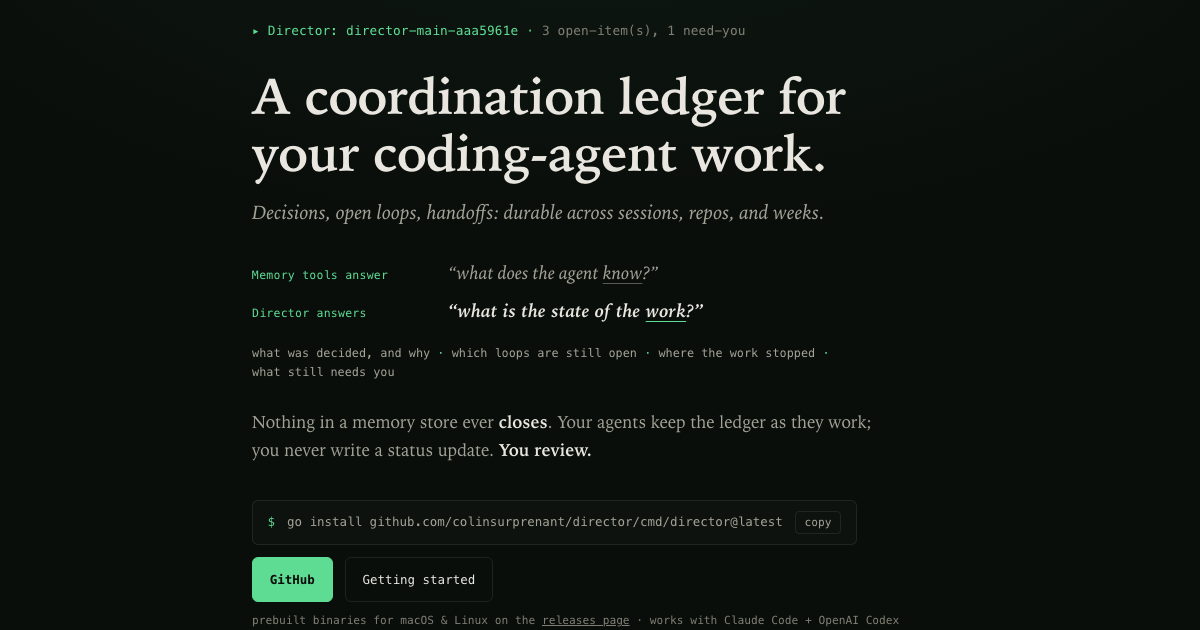
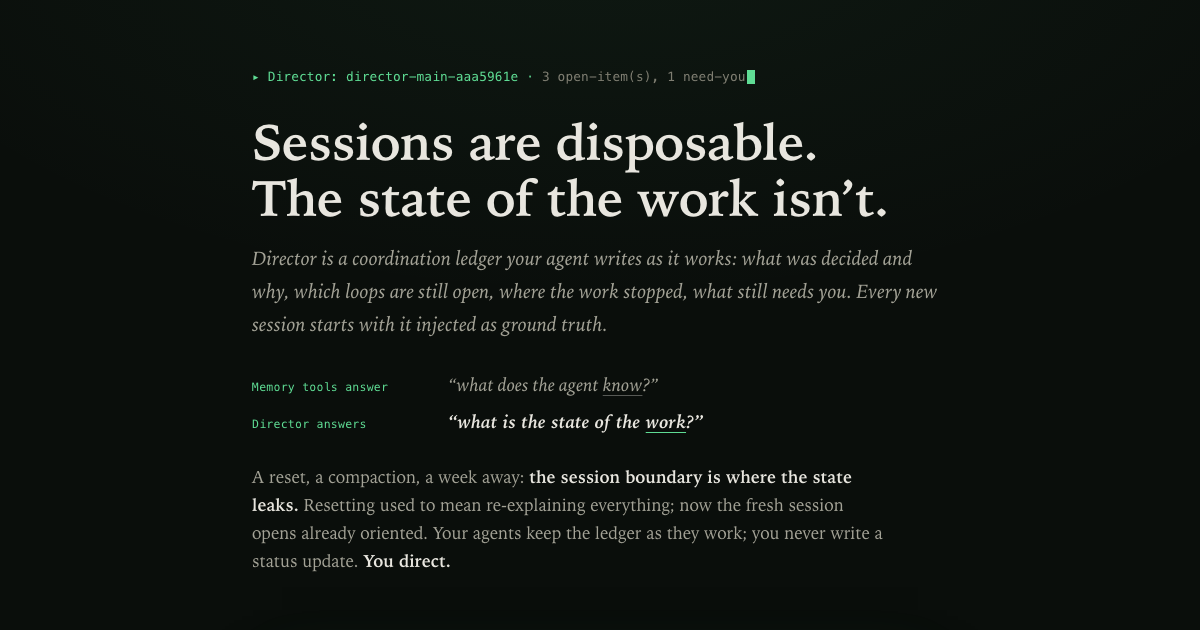
site+docs: regenerate og.png from new hero; align getting-started opening
The og image was stale twice over: old headline plus the pre-installer go-install command. Regenerated at 1200x630 from the reworked page (install row hidden so the card ends on You direct). getting-started opening aligned to the sessions-are-disposable framing.

diff --git a/docs/getting-started.md b/docs/getting-started.md
@@ -1,12 +1,13 @@
 # Getting started with Director
 
-Every session with a coding agent starts fresh on the state of the work: what was decided, which loops
-are open, where the last one stopped. **The session boundary is where the state leaks**, whether you
-have one repo or many. Director closes the leak: sessions write durable coordination state (decisions,
-open loops, handoffs) to a shared append-only LOG as they work, and every new session starts from that
-record instead of from git archaeology, so re-entering a project you haven't touched in weeks picks up
-exactly where the last block left off. You don't operate it: you read the projections (`status`,
-`brief`) and step in only where a human is actually needed.
+Sessions are disposable; the state of the work isn't. Every session with a coding agent starts fresh
+on that state: what was decided, which loops are open, where the last one stopped. **The session
+boundary is where the state leaks**, whether it's a reset, a compaction, or weeks away. Director makes
+the reset free: sessions write durable coordination state (decisions, open loops, handoffs) to a shared
+append-only LOG as they work, and every new session starts from that record instead of from git
+archaeology, so re-entering a project you haven't touched in weeks picks up exactly where the last
+block left off. You don't operate it: you read the projections (`status`, `brief`) and step in only
+where a human is actually needed.
 
 This guide walks the first run end to end, written in Claude Code terms with the Codex differences
 called out where they exist (see "Using OpenAI Codex?" in section 1). Go is only needed for the